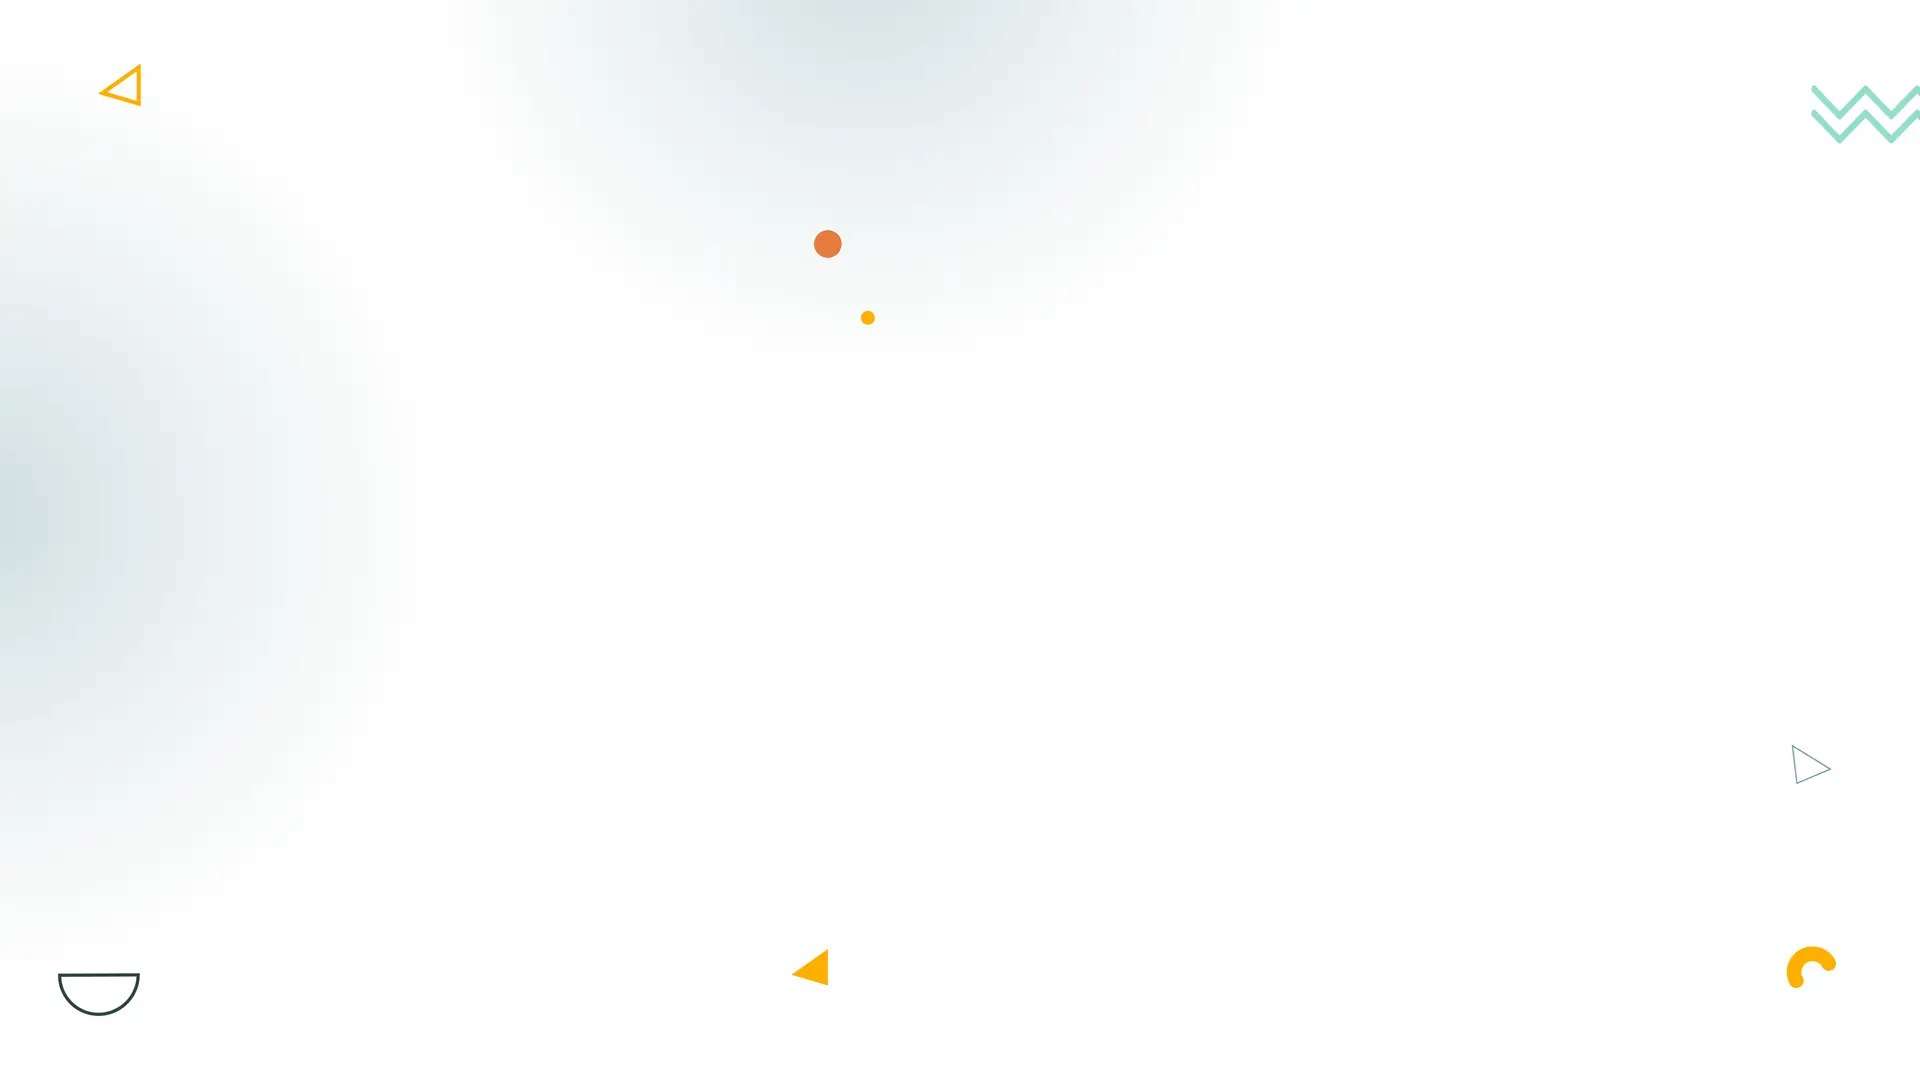
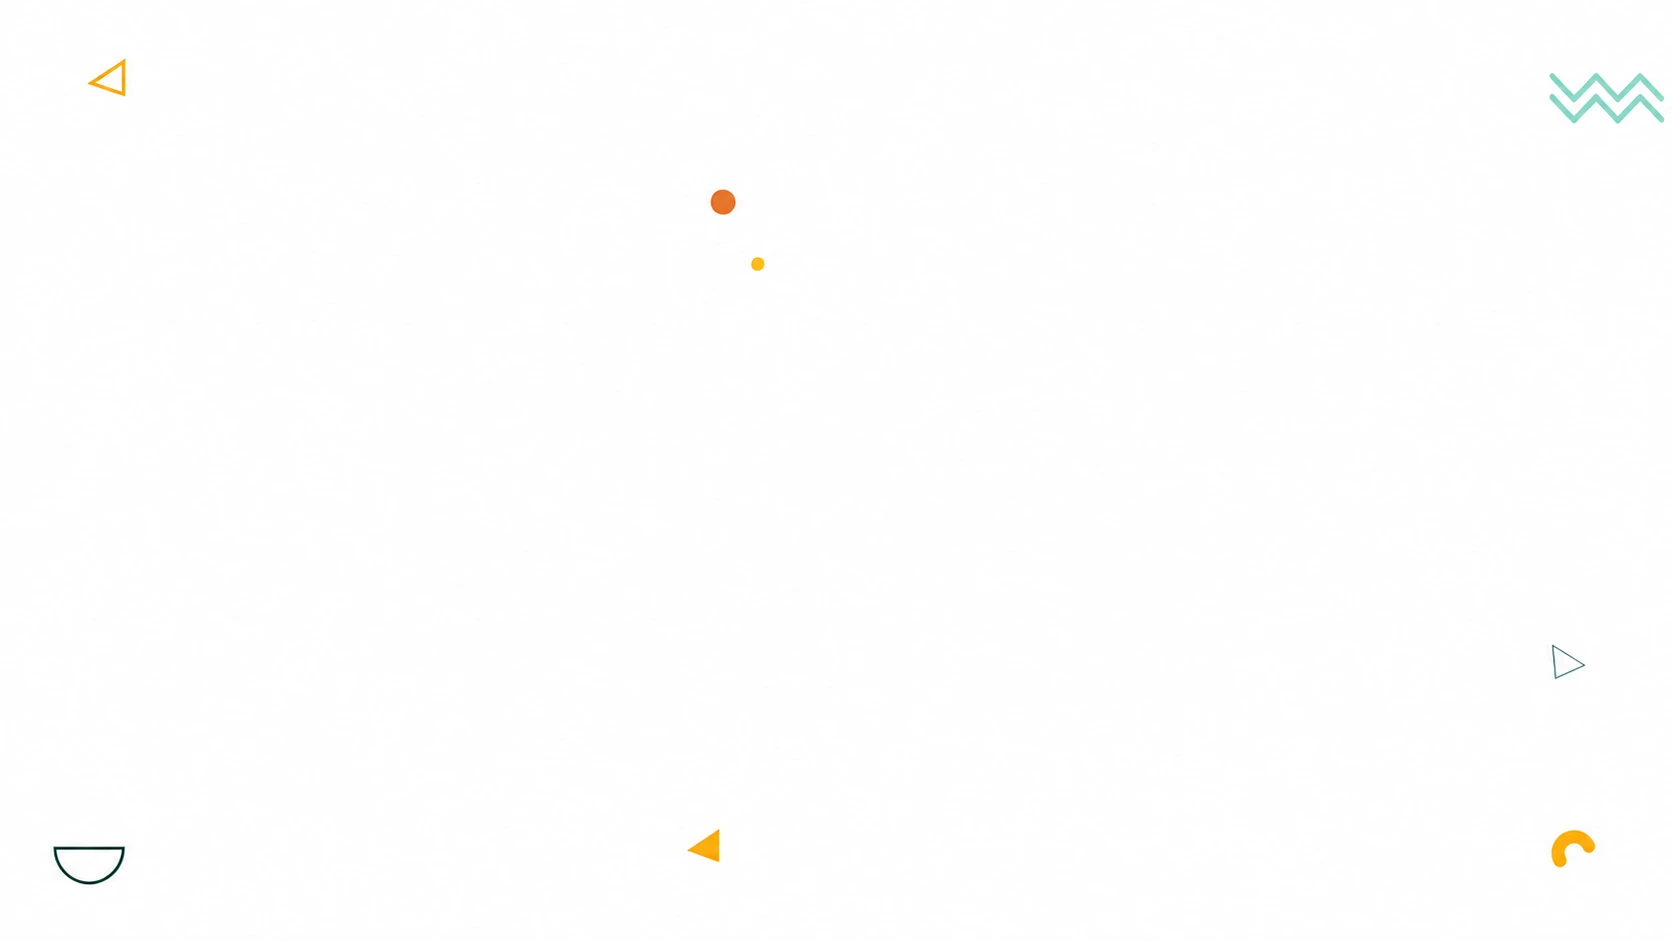
redesign: contact page

diff --git a/app/features/landing/contact/components/FormContact.vue b/app/features/landing/contact/components/FormContact.vue
@@ -1,54 +1,70 @@
+<script setup lang="ts">
+import { computed, ref } from "vue";
+
+const messageMaxLength = 1000;
+const message = ref("");
+
+const messageCounterClass = computed(() => {
+  if (message.value.length >= messageMaxLength) {
+    return "text-error";
+  }
+
+  return "text-muted";
+});
+</script>
+
 <template>
-  <UCard
-    class="container -mt-8 max-w-250 bg-eastern-blue-100 shadow-xl md:-mt-12"
-    :ui="{ body: 'p-4 md:py-12' }"
-  >
-    <div class="mx-auto space-y-6">
-      <div class="space-y-3 text-center">
-        <h2 class="text-4xl font-semibold text-highlighted">
-          Email
-        </h2>
-        <p class="text-lg text-toned">
-          Anda bisa menghubungi kami melalui layanan email melalui kolom dibawah ini.
+  <div class="relative shadow-xl rounded-3xl px-10 py-8 border border-gray-100 overflow-hidden">
+    <div class="absolute top-0 left-0 h-1.25 w-full rounded-t-2xl bg-linear-to-r from-primary to-just-right" />
+
+    <div class="flex gap-4">
+      <div class="">
+        <div class="flex items-center justify-center rounded-3xl bg-primary-100 p-5">
+          <UIcon name="i-lucide-message-square" class="text-primary text-2xl" />
+        </div>
+      </div>
+      <div>
+        <p class="text-2xl text-primary-600 font-semibold">
+          Kirim Pesan
+        </p>
+        <p class="mt-2 text-sm">
+          Isi formulir di bawah ini dan kami akan segera menghubungi Anda.
         </p>
       </div>
-
-      <form id="email-form" class="space-y-4">
-        <div class="grid grid-cols-1 gap-4 md:grid-cols-2">
-          <UInput
-            name="name"
-            placeholder="Nama"
-            autocomplete="name"
-            size="lg"
-            class="w-full"
-          />
-          <UInput
-            name="email"
-            type="email"
-            placeholder="Email"
-            autocomplete="email"
-            size="lg"
-            class="w-full"
-          />
-        </div>
-
-        <UTextarea
-          name="message"
-          placeholder="Pesan"
-          :rows="10"
-          size="lg"
-          class="w-full"
-        />
-
-        <div class="flex w-full justify-end">
-          <UButton
-            type="submit"
-            form="email-form"
-            label="Kirim"
-            size="lg"
-          />
-        </div>
-      </form>
     </div>
-  </UCard>
+
+    <UForm class="flex flex-col gap-6 mt-8">
+      <div class="grid grid-cols-2 gap-5">
+        <UFormField label="Nama Lengkap" name="name" :ui="{ label: 'font-bold' }">
+          <UInput placeholder="Contoh: Arif Budiman" />
+        </UFormField>
+        <UFormField label="Alamat Email" name="email" :ui="{ label: 'font-bold' }">
+          <UInput placeholder="Contoh: [email redacted]" />
+        </UFormField>
+      </div>
+      <UFormField label="Pesan Anda" name="message" :ui="{ label: 'font-bold' }">
+        <UTextarea
+          v-model="message"
+          placeholder="Ceritakan bagaimana kami dapat membantu Anda membangun hubungan yang lebih kuat..."
+          :rows="10"
+          :maxlength="messageMaxLength"
+        />
+        <p class="mt-2 text-right text-sm" :class="messageCounterClass">
+          {{ message.length }}/{{ messageMaxLength }}
+        </p>
+      </UFormField>
+    </UForm>
+    <UButton class="w-44 cursor-pointer">
+      <div class="flex items-center justify-center gap-4 w-full text-base">
+        <UIcon name="i-streamline-send-email-remix" />
+        Kirim Pesan
+      </div>
+    </UButton>
+    <div class="flex items-start gap-2 mt-10">
+      <UIcon name="i-lucide-lock-keyhole" class="text-base" />
+      <p class="text-sm">
+        Dengan mengirim pesan, Anda menyetujui kebijakan privasi kami dan bahwa informasi yang Anda berikan akan dijaga kerahasiaannya.
+      </p>
+    </div>
+  </div>
 </template>

diff --git a/app/features/landing/contact/ContactContainer.vue b/app/features/landing/contact/ContactContainer.vue
@@ -3,60 +3,60 @@ import FormContact from "./components/FormContact.vue";
 </script>
 
 <template>
-  <main>
-    <section class="bg-[url('/images/landingbg1.webp')] object-cover bg-repeat-y bg-center py-20">
-      <div class="container flex flex-col gap-60">
-        <div class="flex flex-col items-center md:items-start gap-10 pt-12 md:flex-row">
-          <div class="backdrop-blur-lg flex w-full flex-col gap-8 text-center md:w-1/2 md:text-left">
-            <h1 class="text-4xl font-bold text-highlighted md:text-5xl">
-              Kontak Kami
-            </h1>
-
-            <div class="space-y-5 text-justify text-base leading-8 text-toned md:text-lg">
-              <p class="font-bold text-highlighted">
-                Bingung Soal Cinta? Punya Keluhan Tentang Hubungan? Kami Siap Mendengar!
-              </p>
-              <p>
-                Perjalanan cinta dan menemukan pasangan hidup bisa jadi rumit, penuh tantangan, atau bahkan terkadang terasa berat. Jika Anda sedang menghadapi kebuntuan dalam hubungan, mencari panduan untuk menemukan jodoh, atau memiliki keluhan seputar percintaan, kami ada untuk Anda.
-              </p>
-              <p>
-                Kami memahami setiap hati memiliki kisahnya sendiri. Jangan pendam keresahan Anda! Bagikan pengalaman, pertanyaan, atau keluhan Anda melalui formulir di bawah ini. Untuk respons yang lebih cepat dan pribadi, gunakan fitur chat langsung kami.
-              </p>
-              <p class="font-bold italic text-highlighted">
-                Ceritakan kisah cinta Anda kepada kami, dan mari kita wujudkan kebahagiaan yang Anda impikan.
-              </p>
+  <main class="container py-20 grid grid-cols-5 gap-20">
+    <div class="col-span-5 md:col-span-2">
+      <div class="">
+        <h1 class="text-4xl font-bold ">
+          Mari Memulai Perjalanan <span class="text-primary">Bersama</span>
+        </h1>
+        <p class="my-10">
+          Apapun pertanyaan Anda tentang layanan pendampingan, jadwal bootcamp, atau mencari arahan, tim kami siap membantu Anda. Kamu mendengarkan setiap cerita dengan sepenuh hati dan memberikan solusi terbaik untuk Anda.
+        </p>
+        <div class="grid grid-cols-1 gap-5">
+          <UCard>
+            <div class="flex items-start gap-5">
+              <div class="flex items-center justify-center w-12 h-12 bg-primary-100 rounded-full">
+                <UIcon name="i-heroicons-envelope-solid" class="text-primary text-2xl" />
+              </div>
+              <div>
+                <p class="text-lg text-primary font-semibold">
+                  Dukungan Email
+                </p>
+                <p class="text-base text-black my-1">
+                  [email redacted]
+                </p>
+                <p class="text-sm text-gray-600 font-light">
+                  Balasan dikirim dalam 24 jam
+                </p>
+              </div>
             </div>
-
-            <div>
-              <UButton
-                to="https://wa.me/6285772048120"
-                target="_blank"
-                rel="noopener noreferrer"
-                icon="i-mdi-whatsapp"
-                color="neutral"
-                variant="solid"
-                size="xl"
-                label="WhatsApp Kami"
-                class="rounded-md bg-default px-5 py-3 font-bold text-highlighted shadow-sm hover:bg-muted"
-                :ui="{ leadingIcon: 'size-8 text-[#25D366]' }"
-              />
+          </UCard>
+          <UCard>
+            <div class="flex items-start gap-5">
+              <div class="flex items-center justify-center w-12 h-12 bg-just-right rounded-full">
+                <UIcon name="i-ion-location-sharp" class="text-amber-600 text-[26px]" />
+              </div>
+              <div>
+                <p class="text-lg text-primary font-semibold">
+                  Kunjungi Tempat Kami
+                </p>
+                <p class="text-base text-black mt-1 mb-2">
+                  123 Jalan Raya Bogor, Peace Valley, Kota Bogor, 15911
+                </p>
+                <button class="flex items-center gap-3 font-medium text-primary cursor-pointer hover:underline">
+                  <p class="font-light">
+                    Lihat di Peta
+                  </p>
+                  <UIcon name="i-lucide-arrow-right" />
+                </button>
+              </div>
             </div>
-          </div>
-
-          <div class="flex w-full justify-center md:w-1/2">
-            <NuxtImg
-              src="/images/kontak-image-kb.avif"
-              alt="Ilustrasi kontak Keluarga Bahagia"
-              width="1647"
-              height="1647"
-              densities="x1 x2"
-              class="w-full max-w-xl object-contain"
-            />
-          </div>
+          </UCard>
         </div>
-
-        <FormContact />
       </div>
-    </section>
+    </div>
+    <div class="col-span-5 md:col-span-3">
+      <FormContact />
+    </div>
   </main>
 </template>

diff --git a/app/features/landing/products/ProductsContainer.vue b/app/features/landing/products/ProductsContainer.vue
@@ -5,8 +5,8 @@ import Ebooks from "./components/Ebooks.vue";
 </script>
 
 <template>
-  <main class="bg-[url('/images/kontakback.webp')] object-cover bg-repeat-y bg-center">
-    <div class="container py-20 ">
+  <main class="bg-[url('/images/tentangbg1.webp')] bg-contain">
+    <div class="container py-20 bg-white">
       <div class="mb-20">
         <h1 class="text-primary-600 text-4xl font-bold">
           Program & Materi Unggulan Kami

diff --git a/app/features/landing/about/AboutContainer.vue b/app/features/landing/about/AboutContainer.vue
@@ -28,7 +28,7 @@ const mentors = [
 </script>
 
 <template>
-  <main class="min-h-screen bg-[url('/images/tentangbg1.webp')] bg-contain bg-center pt-32">
+  <main class="bg-[url('/images/tentangbg1.webp')] bg-contain pt-32">
     <div class="container mx-auto space-y-28 px-6">
       <!-- HERO / ABOUT -->
       <section class="grid items-center gap-12 lg:grid-cols-2">